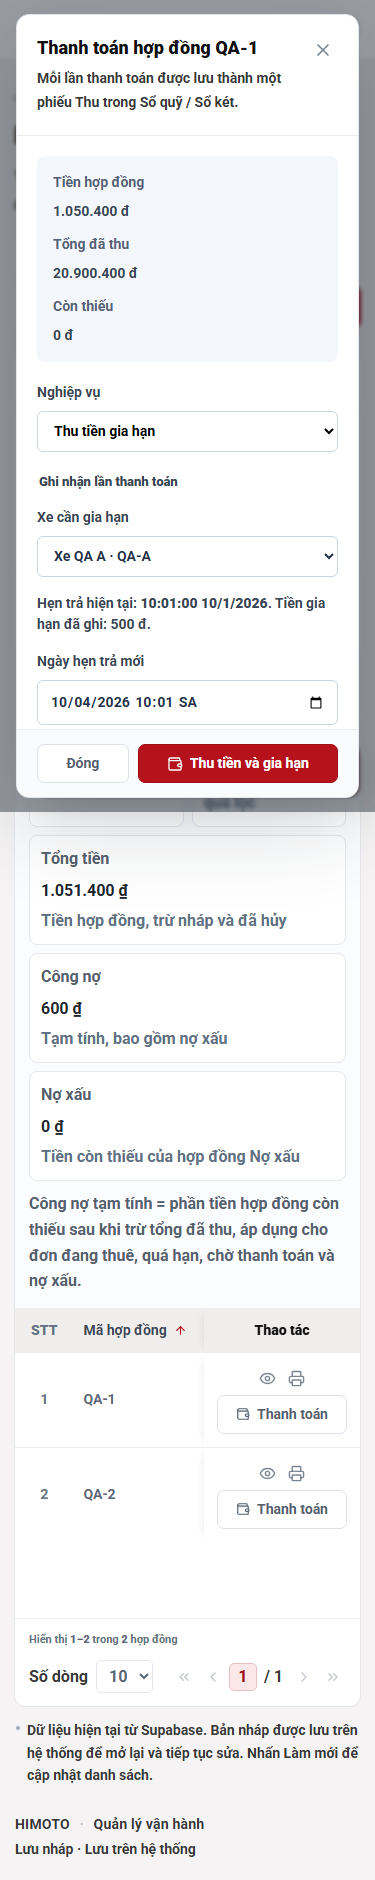
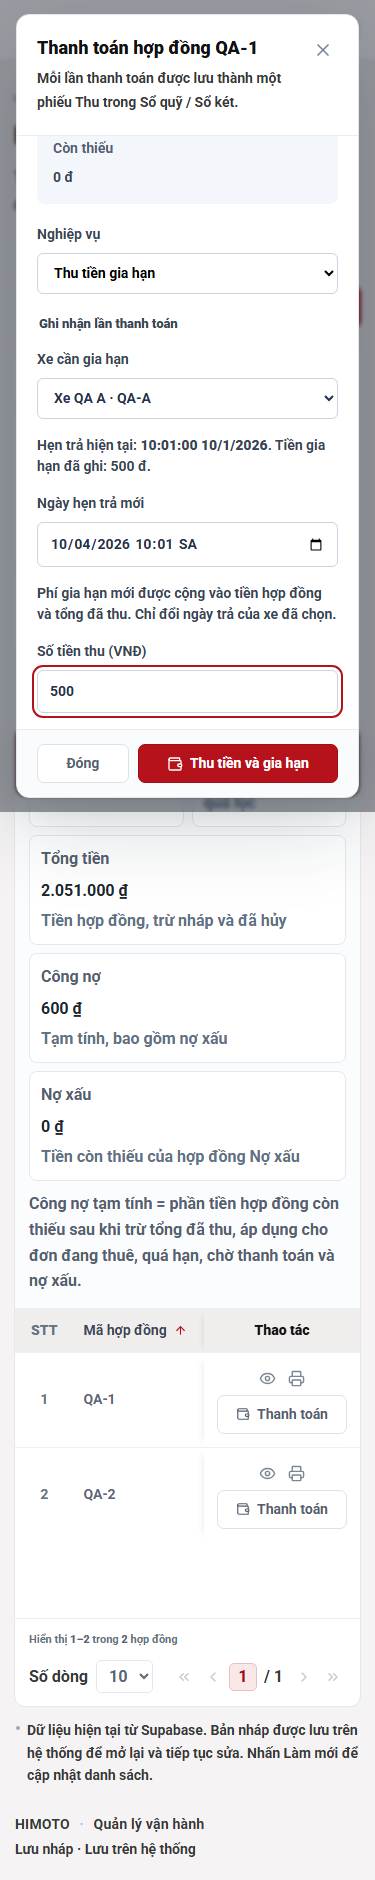
fix: format contract payment amounts with thousand separators

diff --git a/src/components/management/ContractPaymentDialog.tsx b/src/components/management/ContractPaymentDialog.tsx
@@ -9,6 +9,8 @@ import { useManagement } from './ManagementProvider';
 import { formatMoney } from '@/lib/formatters';
 import { PAYABLE_STATUSES, RENEWABLE_STATUSES, PAYMENT_METHODS, PaymentContext, PaymentInput, PaymentMethod, PaymentRequestError, loadPaymentContext, paymentAccounts, saveContractPayment, vietnamPaymentTime } from '@/lib/management/contract-payments';
 
+const groupAmount = (value: string) => value.replace(/\B(?=(\d{3})+(?!\d))/g, '.');
+
 export function ContractPaymentDialog({ id, onClose }: { id: number; onClose: () => void }) {
   const { acceptContractPayment, notify, selectStore } = useManagement();
   const router = useRouter();
@@ -56,6 +58,20 @@ export function ContractPaymentDialog({ id, onClose }: { id: number; onClose: ()
   const canCollect = purpose === 'renewal' ? renewable : payable;
   const locked = saving || Boolean(pending);
   const money = (value: number | null) => value === null ? 'Chưa đối chiếu' : formatMoney(value);
+
+  function changeAmount(input: HTMLInputElement) {
+    const raw = input.value.replaceAll('.', '');
+    if (!/^\d{0,13}$/.test(raw)) return;
+    const digitsBeforeCaret = input.value.slice(0, input.selectionStart ?? input.value.length).replaceAll('.', '').length;
+    const formatted = groupAmount(raw);
+    let position = 0, digits = 0;
+    while (position < formatted.length && digits < digitsBeforeCaret) {
+      if (formatted[position] !== '.') digits++;
+      position++;
+    }
+    setAmount(raw);
+    requestAnimationFrame(() => { if (document.activeElement === input) input.setSelectionRange(position, position); });
+  }
 
   async function refresh() {
     setLoading(true);
@@ -109,7 +125,12 @@ export function ContractPaymentDialog({ id, onClose }: { id: number; onClose: ()
               <label className="mg-field-wide">Ngày hẹn trả mới<input aria-label="Ngày hẹn trả mới" type="datetime-local" required value={returnAt} onChange={event => setReturnAt(event.target.value)} /></label>
               <p className="mg-field-wide">Phí gia hạn mới được cộng vào tiền hợp đồng và tổng đã thu. Chỉ đổi ngày trả của xe đã chọn.</p>
             </>}
-            <label>Số tiền thu (VNĐ)<input aria-label="Số tiền thu (VNĐ)" inputMode="numeric" pattern="[1-9][0-9]{0,12}" required value={amount} onChange={event => setAmount(event.target.value)} placeholder="Nhập số tiền" /></label>
+            <label>Số tiền thu (VNĐ)<input aria-label="Số tiền thu (VNĐ)" inputMode="numeric" pattern="[1-9][0-9.]{0,16}" maxLength={17} required value={groupAmount(amount)} onChange={event => changeAmount(event.currentTarget)} onKeyDown={event => {
+              const input = event.currentTarget, position = input.selectionStart;
+              if (event.ctrlKey || event.metaKey || event.altKey || position === null || position !== input.selectionEnd) return;
+              if (event.key === 'Backspace' && input.value[position - 1] === '.') input.setSelectionRange(position - 1, position - 1);
+              if (event.key === 'Delete' && input.value[position] === '.') input.setSelectionRange(position + 1, position + 1);
+            }} placeholder="Nhập số tiền" /></label>
             <label>Ngày giờ thu<input aria-label="Ngày giờ thu" type="datetime-local" required value={paidAt} onChange={event => setPaidAt(event.target.value)} /></label>
             <label className="mg-field-wide">Hình thức thanh toán<select aria-label="Hình thức thanh toán" value={method} onChange={event => { setMethod(event.target.value as PaymentMethod); setAccountId(''); }}>
               {PAYMENT_METHODS.map(item => <option key={item.value} value={item.value}>{item.label}</option>)}

diff --git a/scripts/check-contract-payments-ui.py b/scripts/check-contract-payments-ui.py
@@ -127,7 +127,19 @@ with sync_playwright() as playwright:
 
     dialog = open_payment(1)
     expect(dialog.get_by_label('Tài khoản nhận')).to_have_value('1')
+    amount_input = dialog.get_by_label('Số tiền thu (VNĐ)')
+    amount_input.press_sequentially('1000000')
+    expect(amount_input).to_have_value('1.000.000')
+    amount_input.evaluate('(el)=>el.setSelectionRange(3,3)')
+    amount_input.press('Backspace')
+    expect(amount_input).to_have_value('100.000')
+    amount_input.evaluate('(el)=>el.setSelectionRange(1,1)')
+    amount_input.press('Delete')
+    expect(amount_input).to_have_value('10.000')
+    amount_input.fill('1.000')
+    expect(amount_input).to_have_value('1.000')
     dialog.get_by_label('Số tiền thu (VNĐ)').fill('1001')
+    expect(amount_input).to_have_value('1.001')
     dialog.get_by_role('button',name='Ghi nhận thanh toán',exact=True).click()
     expect(dialog.get_by_role('alert')).to_contain_text('số tiền còn thiếu')
     assert len(submissions) == 0
@@ -220,7 +232,8 @@ with sync_playwright() as playwright:
     expect(dialog.get_by_label('Nghiệp vụ',exact=True)).to_have_value('renewal')
     expect(dialog.get_by_role('button',name='Thu tiền và gia hạn',exact=True)).to_be_visible()
     dialog.get_by_label('Xe cần gia hạn',exact=True).select_option('102')
-    dialog.get_by_label('Số tiền thu (VNĐ)').fill('400')
+    dialog.get_by_label('Số tiền thu (VNĐ)').fill('1.000.000')
+    expect(dialog.get_by_label('Số tiền thu (VNĐ)')).to_have_value('1.000.000')
     dialog.get_by_label('Ngày hẹn trả mới',exact=True).fill('2026-02-10T10:01')
     before_requests = len(submissions)
     dialog.get_by_role('button',name='Thu tiền và gia hạn',exact=True).click()
@@ -241,13 +254,15 @@ with sync_playwright() as playwright:
     expect(dialog.get_by_label('Xe cần gia hạn',exact=True)).to_have_value('102')
     expect(dialog.get_by_label('Ngày hẹn trả mới',exact=True)).to_have_value('2026-03-10T10:01')
     expect(dialog.get_by_label('Ngày hẹn trả mới',exact=True)).to_be_disabled()
+    expect(dialog.get_by_label('Số tiền thu (VNĐ)')).to_have_value('1.000.000')
     dialog.get_by_role('button',name='Thử lại lần thu này').click()
     expect(dialog.get_by_label('Số tiền thu (VNĐ)')).to_have_value('')
     assert submissions[-1]['request_id']==renewal_id and len(receipts)==6
-    assert records[0]['total_amount']=='1050400' and records[0]['paid_amount']=='20900400'
+    assert submissions[-1]['amount']=='1000000'
+    assert records[0]['total_amount']=='2050000' and records[0]['paid_amount']=='21900000'
     assert items[1][0]==original_other and items[1][1]['return_at']=='2026-03-10T10:01:00+07:00'
     expect(dialog.locator('.mg-payment-history')).to_contain_text('Gia hạn QA-B đến')
-    checks.append('legacy paid above original fee defaults to renewal; invalid date blocked; selected vehicle/date and fee survive lost response/reload; replay charges once; other vehicle unchanged')
+    checks.append('grouped money supports typing, paste and middle edits; raw integer payload and formatted amount survive lost response/reload; renewal charges once and other vehicle unchanged')
     dialog.get_by_label('Xe cần gia hạn',exact=True).select_option('101')
     dialog.get_by_label('Ngày hẹn trả mới',exact=True).fill('2026-04-10T10:01')
     dialog.get_by_label('Số tiền thu (VNĐ)').fill('500')

diff --git a/docs/contract-payments.md b/docs/contract-payments.md
@@ -9,6 +9,8 @@ Mỗi lần thu tạo một `transactions` loại `in`, trạng thái `approved`
 
 Khi không còn công nợ và có xe được gia hạn, hộp thoại tự chọn **Thu tiền gia hạn**. Số liệu tiền thiếu/sai, nháp, xe đã trả/xóa, ngày không tăng và trạng thái không phù hợp đều bị chặn. Ngày trả chung dùng ngày lớn nhất của các chi tiết còn hiệu lực nếu parent trống; parent có ngày chỉ được tăng, không giảm ngày của xe khác.
 
+Ô số tiền tự thêm dấu chấm hàng nghìn khi gõ/dán, ví dụ `1.000.000`; nội dung gửi API và lưu để thử lại vẫn là chuỗi số nguyên `1000000`.
+
 Nội dung tự điền **`Gia hạn hợp đồng_<mã hợp đồng>`**, có thể chỉnh trước khi gửi. Thao tác ghi nhận tiền đã nhận; không thực hiện chuyển tiền hoặc tự xác minh ngân hàng. Không đổi trạng thái hợp đồng hay tiền cọc, không tính lại các khoản gia hạn/thu lịch sử.
 
 ## Tài khoản nhận và VAT
